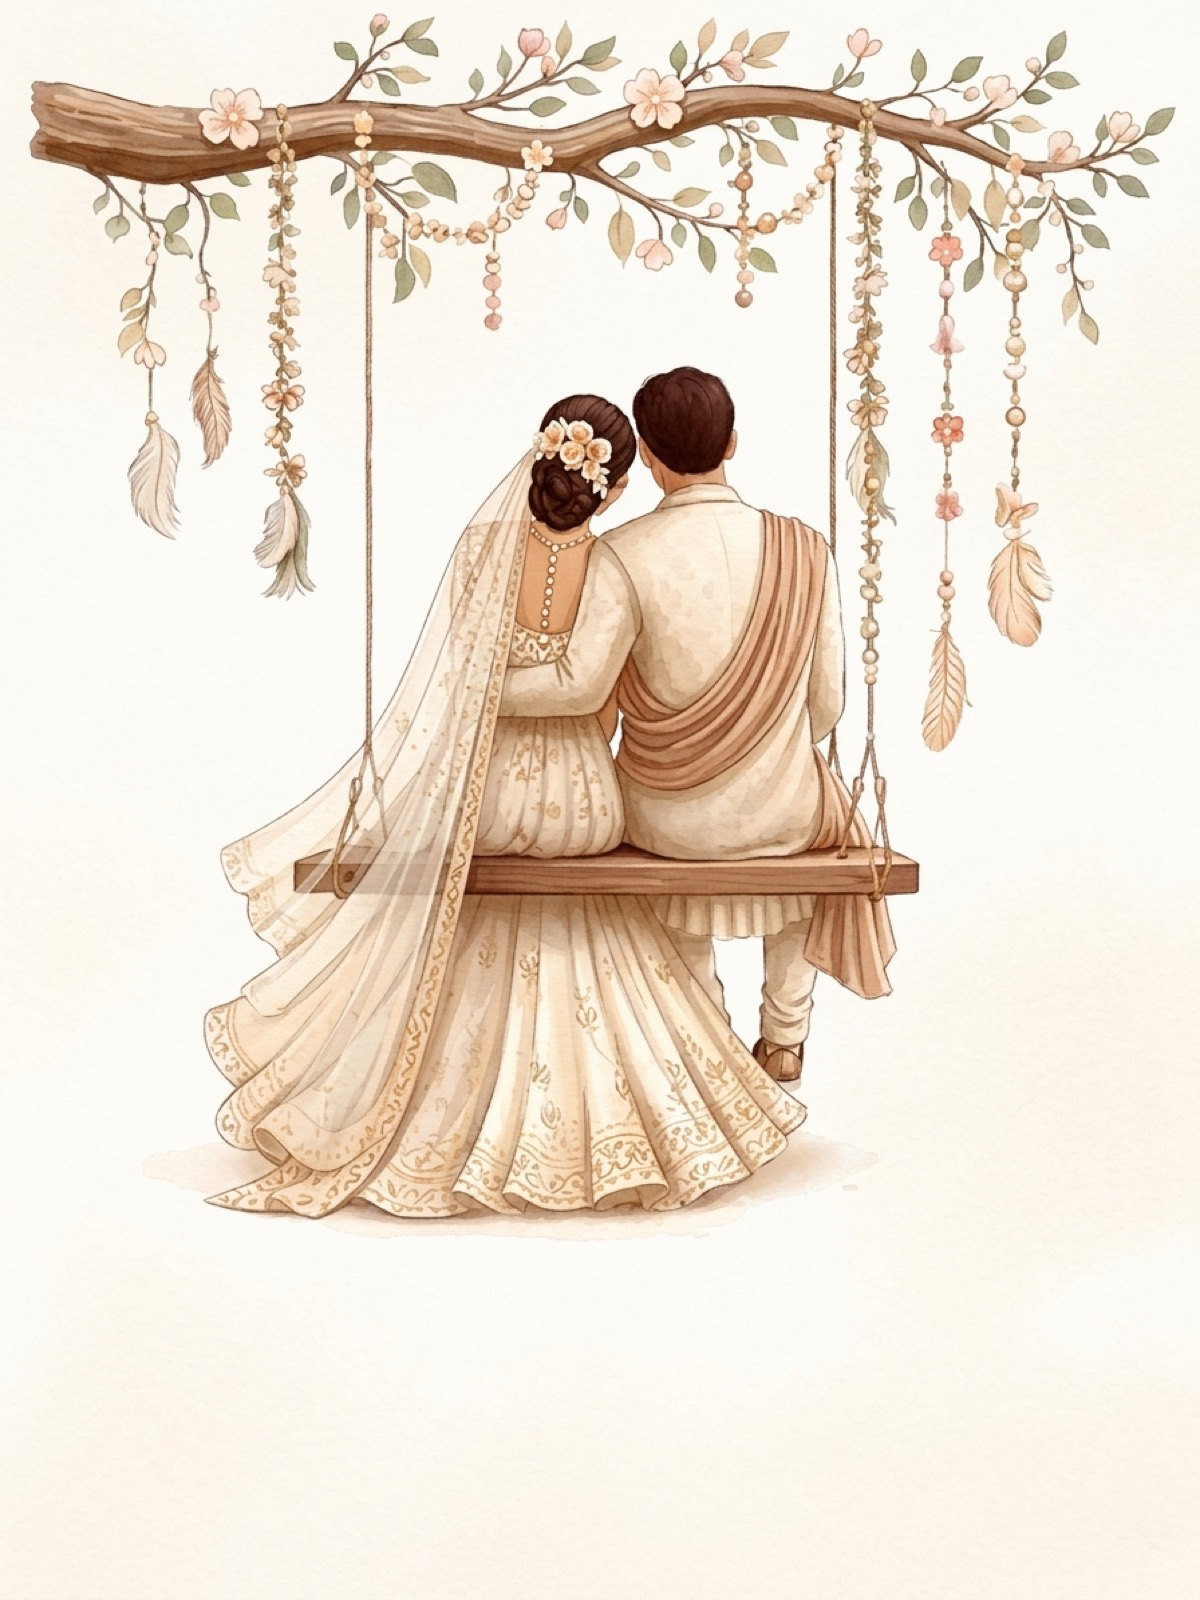
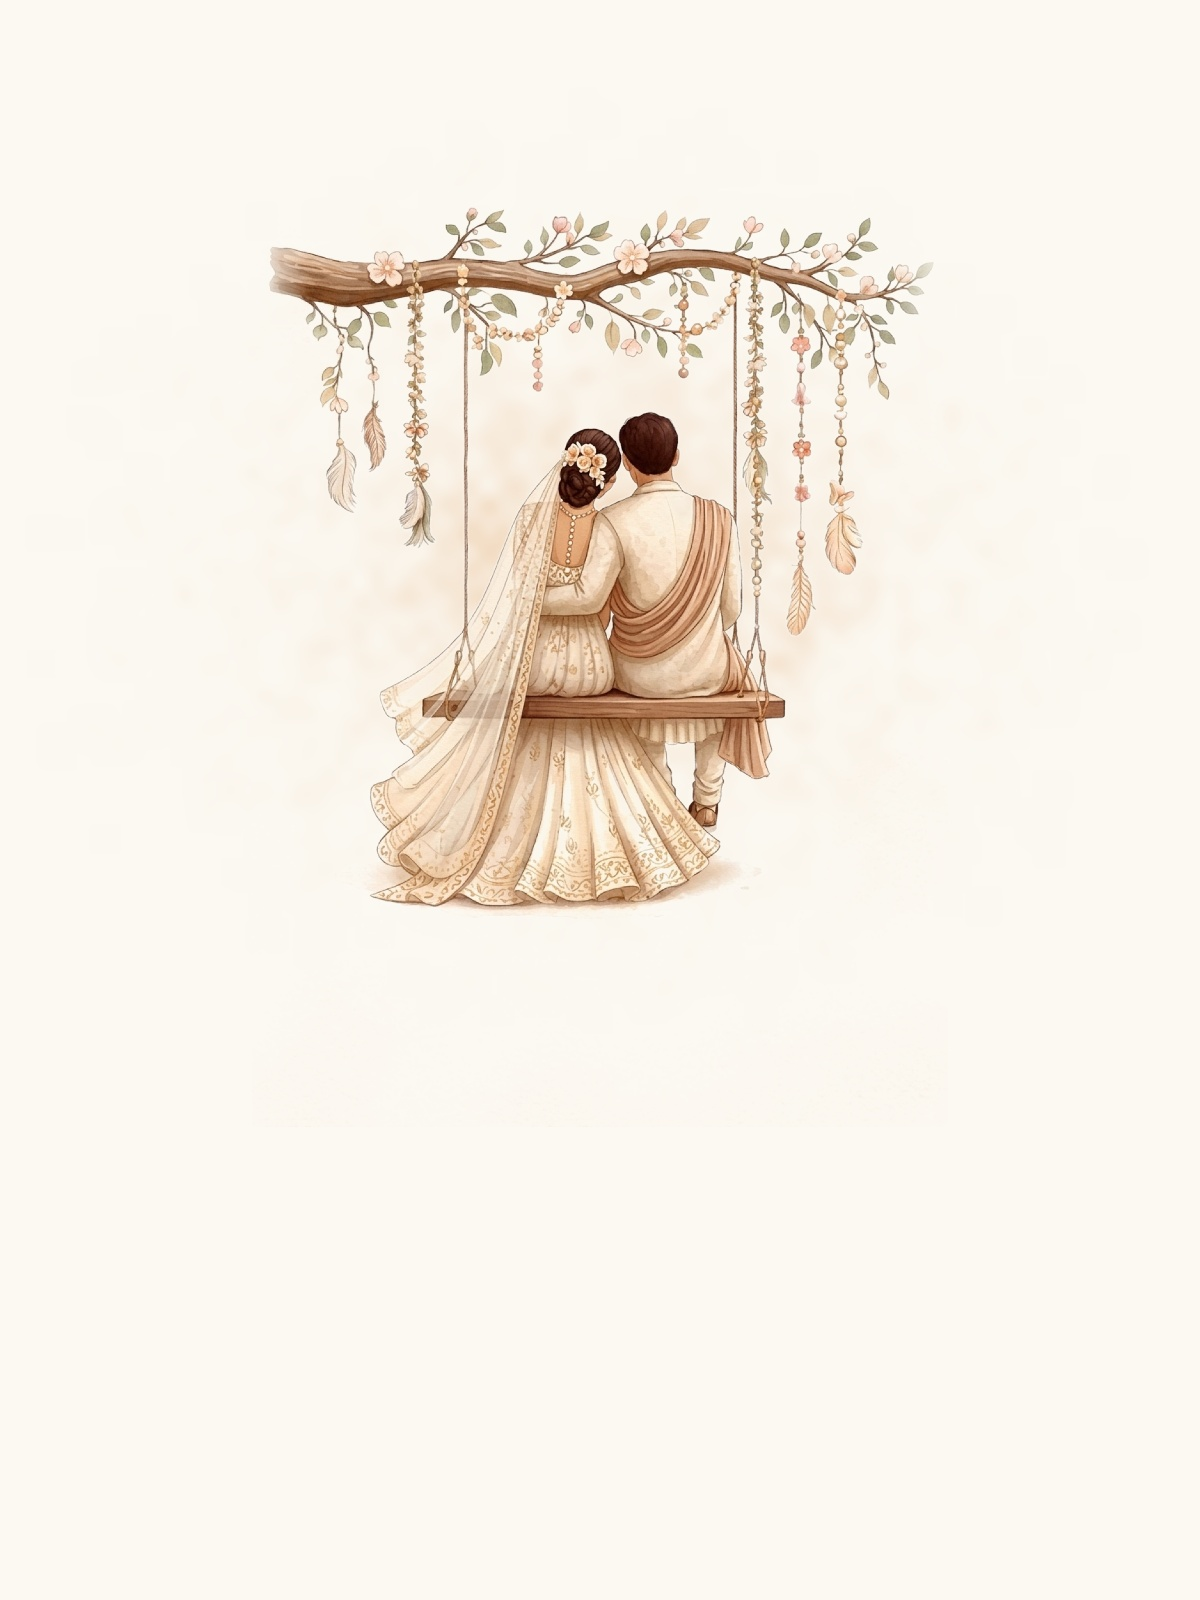
feat(share): refine Ivory and Mandap ceremony QR card watercolor templates

Changed region(s): [[0.0, 0.0, 0.9867, 0.7812]]

diff --git a/frontend/app/[slug]/PortalClient.tsx b/frontend/app/[slug]/PortalClient.tsx
@@ -447,7 +447,7 @@ export default function PortalClient({ slug }: PortalClientProps) {
   // 1. LOCKED VIEW (PASSCODE ACCESS)
   if (locked) {
     return (
-      <div className="min-h-screen bg-neutral-50 flex items-center justify-center px-4 relative overflow-hidden transition-colors duration-300">
+      <div className="min-h-screen bg-neutral-50 flex items-center justify-center px-4 relative overflow-hidden transition-colors duration-300 force-light" style={{ colorScheme: 'light' }}>
         {/* Decorative backdrop shapes */}
         <div className="absolute top-1/4 left-1/4 w-96 h-96 bg-emerald-500/5 rounded-full blur-[120px] pointer-events-none"></div>
         <div className="absolute bottom-1/4 right-1/4 w-96 h-96 bg-purple-500/5 rounded-full blur-[120px] pointer-events-none"></div>
@@ -513,7 +513,7 @@ export default function PortalClient({ slug }: PortalClientProps) {
   })
 
   return (
-    <div className="min-h-screen bg-neutral-50 text-neutral-900 pb-16 relative overflow-hidden transition-colors duration-300">
+    <div className="min-h-screen bg-neutral-50 text-neutral-900 pb-16 relative overflow-hidden transition-colors duration-300 force-light" style={{ colorScheme: 'light' }}>
       {/* Decorative Blur Backdrops */}
       <div className="absolute top-0 right-0 w-[500px] h-[500px] bg-emerald-500/5 rounded-full blur-[150px] pointer-events-none"></div>
       <div className="absolute top-1/2 left-0 w-[500px] h-[500px] bg-purple-500/5 rounded-full blur-[150px] pointer-events-none"></div>
@@ -535,6 +535,7 @@ export default function PortalClient({ slug }: PortalClientProps) {
             <button
               onClick={() => setIsEditingDetails(true)}
               className="text-xs font-semibold bg-neutral-900 hover:bg-neutral-800 text-white px-4 py-2 rounded-xl transition-all duration-300 shadow-sm"
+              style={{ color: '#ffffff' }}
             >
               👤 Edit Profile
             </button>
@@ -605,7 +606,7 @@ export default function PortalClient({ slug }: PortalClientProps) {
               <button
                 type="button"
                 onClick={openShareModal}
-                className="bg-white hover:bg-neutral-50 text-neutral-800 font-semibold py-2.5 px-4 sm:py-3 sm:px-5 rounded-2xl transition border border-neutral-200 text-xs shadow-xs cursor-pointer flex items-center gap-1.5"
+                className="bg-white hover:bg-neutral-50 text-neutral-800 font-semibold py-2.5 px-4 sm:py-3 sm:px-5 rounded-2xl transition border border-neutral-200 text-xs shadow-xs cursor-pointer flex items-center gap-1.5 active:scale-95"
                 title="Share gallery link & QR code with guests"
               >
                 <span>📤</span> Share Gallery
@@ -614,9 +615,10 @@ export default function PortalClient({ slug }: PortalClientProps) {
                 href={myCircleUrl}
                 target="_blank"
                 rel="noopener noreferrer"
-                className={`${primaryColorClass} text-white font-semibold py-2.5 px-5 sm:py-3 sm:px-6 rounded-2xl transition shadow-sm text-center text-xs cursor-pointer flex items-center gap-1.5`}
+                className={`${primaryColorClass} font-semibold py-2.5 px-5 sm:py-3 sm:px-6 rounded-2xl transition shadow-sm text-center text-xs cursor-pointer flex items-center gap-1.5 active:scale-95`}
+                style={{ color: '#ffffff' }}
               >
-                {primaryLabel} <span className="opacity-70">↗</span>
+                {primaryLabel} <span className="opacity-80">↗</span>
               </a>
             </div>
           )
@@ -638,7 +640,7 @@ export default function PortalClient({ slug }: PortalClientProps) {
                     0 photos uploaded so far · AI selfie search and sharing links will activate automatically as soon as photos are uploaded.
                   </p>
                 </div>
-                {renderActions('Preview Workspace', 'bg-neutral-800 hover:bg-neutral-900')}
+                {renderActions('Preview Gallery', 'bg-gradient-to-r from-amber-600 via-amber-600 to-amber-700 hover:from-amber-700 hover:to-amber-800 shadow-sm border border-amber-600/30')}
               </section>
             )
           }

diff --git a/frontend/app/projects/galleries/page.tsx b/frontend/app/projects/galleries/page.tsx
@@ -335,7 +335,7 @@ export default function GalleriesDashboardPage() {
                     {gallery.active ? 'Published' : 'Offline'}
                   </span>
                   {gallery.can_edit === false && (
-                    <span className="px-2 py-0.5 rounded-md text-[9px] font-bold uppercase tracking-wider shadow-sm border bg-neutral-900/80 text-white border-neutral-700 backdrop-blur-sm">
+                    <span className="px-2 py-0.5 rounded-md text-[9px] font-bold uppercase tracking-wider shadow-sm border bg-neutral-900/80 text-[#ffffff] border-neutral-700 backdrop-blur-sm">
                       Read-Only
                     </span>
                   )}
@@ -343,12 +343,17 @@ export default function GalleriesDashboardPage() {
 
                 {/* View Live Link */}
                 <a
-                  href={`https://mycircle.mistyvisuals.com/${gallery.slug}/gallery`}
+                  href={`${portalDomain}/${gallery.slug}/gallery`}
                   target="_blank"
                   rel="noopener noreferrer"
-                  className="absolute bottom-3 right-3 bg-black/75 hover:bg-black text-white text-[10px] font-semibold px-2.5 py-1.5 rounded-lg backdrop-blur-sm transition"
+                  className="absolute bottom-3 right-3 bg-white/95 hover:bg-white text-neutral-800 dark:bg-neutral-900/90 dark:hover:bg-neutral-800 dark:text-neutral-100 border border-neutral-200/80 dark:border-neutral-700/80 shadow-xs hover:shadow-sm text-[10px] font-semibold px-2.5 py-1.5 rounded-lg backdrop-blur-md transition-all flex items-center gap-1.5 active:scale-95"
+                  title="View Live Preview"
                 >
-                  Live Preview ↗
+                  <svg width="11" height="11" viewBox="0 0 24 24" fill="none" stroke="currentColor" strokeWidth="2.5" strokeLinecap="round" strokeLinejoin="round" className="opacity-70">
+                    <path d="M18 13v6a2 2 0 0 1-2 2H5a2 2 0 0 1-2-2V8a2 2 0 0 1 2-2h6"/>
+                    <polyline points="15 3 21 3 21 9"/><line x1="10" y1="14" x2="21" y2="3"/>
+                  </svg>
+                  <span>Live Preview</span>
                 </a>
               </div>
 

diff --git a/frontend/app/projects/galleries/[id]/page.tsx b/frontend/app/projects/galleries/[id]/page.tsx
@@ -847,9 +847,13 @@ export default function GalleryManagementPage() {
           </button>
           <button
             onClick={handleLivePreview}
-            className="flex-1 sm:flex-none justify-center bg-white dark:bg-neutral-800 border border-neutral-200 dark:border-neutral-700 hover:bg-neutral-50 dark:hover:bg-neutral-700 text-neutral-700 dark:text-neutral-200 text-xs font-semibold px-4 py-2.5 rounded-xl transition shadow-xs text-center cursor-pointer active:scale-95"
+            className="flex-1 sm:flex-none justify-center bg-white hover:bg-neutral-50 text-neutral-800 dark:bg-neutral-800 dark:hover:bg-neutral-700 dark:text-neutral-100 border border-neutral-200 dark:border-neutral-700 text-xs font-semibold px-4 py-2.5 rounded-xl transition shadow-xs text-center cursor-pointer flex items-center gap-1.5 active:scale-95"
           >
-            Preview Gallery ↗
+            <svg width="12" height="12" viewBox="0 0 24 24" fill="none" stroke="currentColor" strokeWidth="2.2" strokeLinecap="round" strokeLinejoin="round" className="opacity-70">
+              <path d="M18 13v6a2 2 0 0 1-2 2H5a2 2 0 0 1-2-2V8a2 2 0 0 1 2-2h6"/>
+              <polyline points="15 3 21 3 21 9"/><line x1="10" y1="14" x2="21" y2="3"/>
+            </svg>
+            Preview Gallery
           </button>
         </div>
       </div>

diff --git a/frontend/app/[slug]/layout.tsx b/frontend/app/[slug]/layout.tsx
@@ -1,0 +1,18 @@
+/**
+ * Layout for client workspace portal pages — forces light color-scheme
+ * so the workspace portal renders cleanly according to the Misty Visuals brand palette
+ * regardless of the client's OS-level dark/light mode setting.
+ */
+export const metadata = {
+  other: {
+    'color-scheme': 'only light',
+  },
+}
+
+export default function ClientPortalLayout({ children }: { children: React.ReactNode }) {
+  return (
+    <div className="force-light" style={{ colorScheme: 'light' }}>
+      {children}
+    </div>
+  )
+}

diff --git a/frontend/components/PrintQRModal.tsx b/frontend/components/PrintQRModal.tsx
@@ -36,9 +36,9 @@ const THEME_OPTIONS: { id: CardTheme; name: string; description: string; preview
   },
   {
     id: 'gemini_2',
-    name: 'Gemini 2: Sage',
-    description: 'AI Watercolor: Soft sage green & eucalyptus washes',
-    previewBg: 'bg-[#EEF4EF] border-[#CADBCE]',
+    name: 'Gemini 2: Mandap',
+    description: 'AI Watercolor: Traditional Indian Mandap & sacred ceremony',
+    previewBg: 'bg-[#FFF7ED] border-[#FED7AA]',
   },
   {
     id: 'gemini_3',
